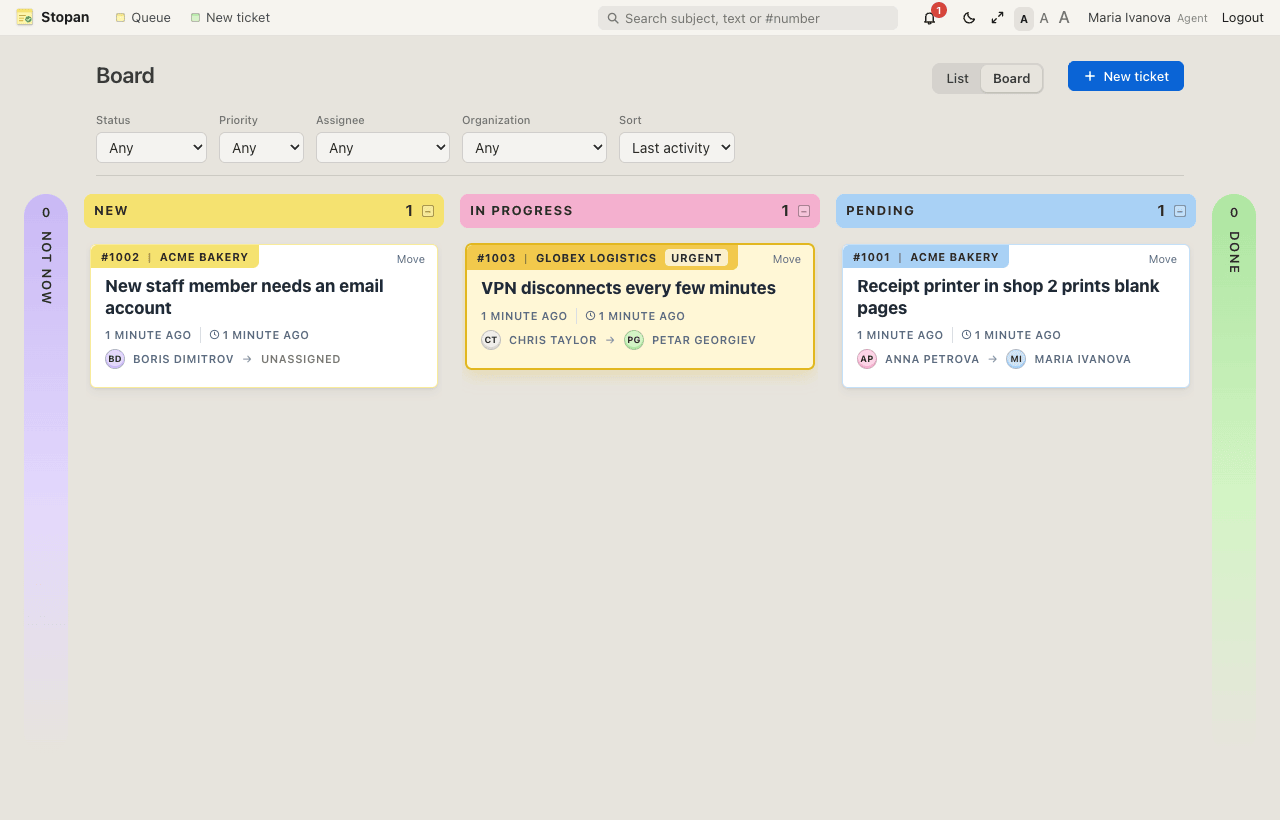
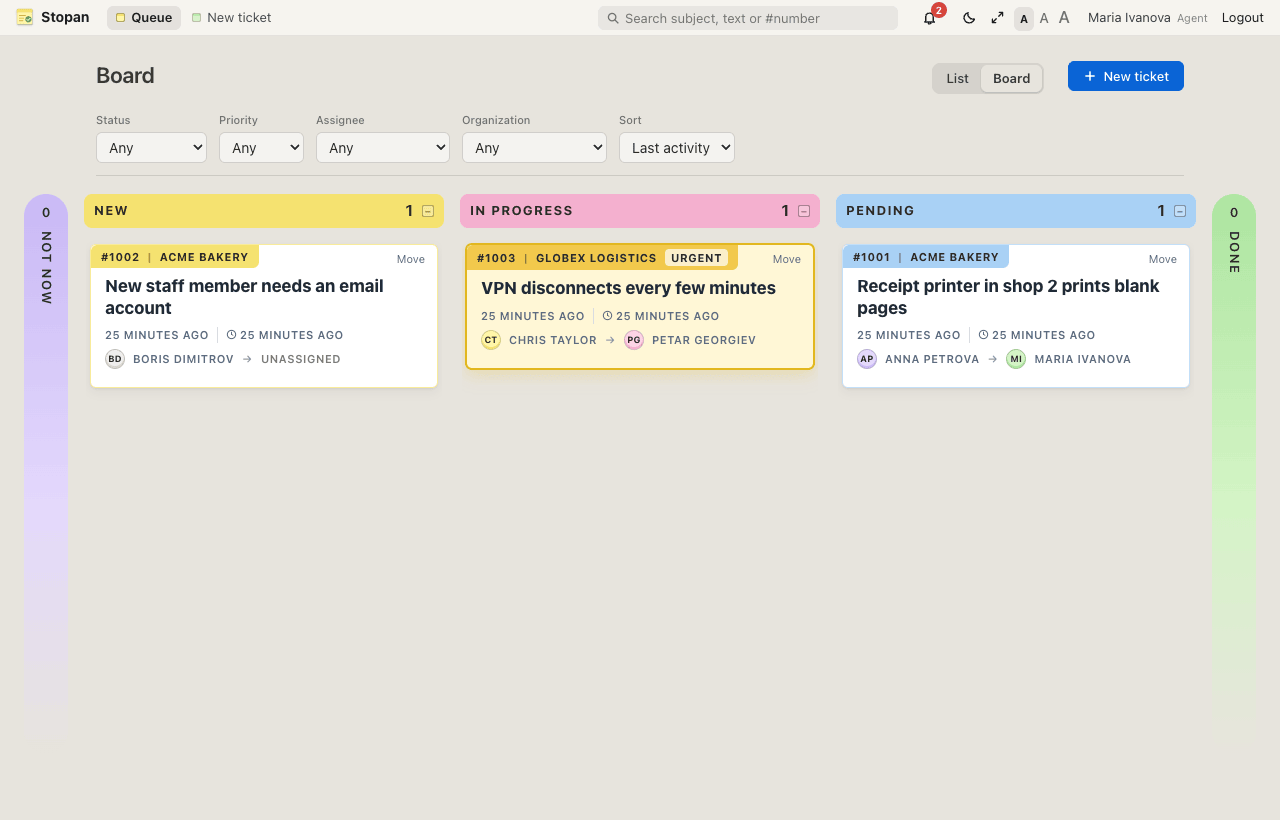
fix(nav): mark queue as the current section on the board
The board belongs to the Queue section like the list and the ticket
pages, but current_section did not count the boards controller, so the
menu bar showed no current section there. Count it as :tickets, so
"Queue" gets aria-current="page" on the board, and assert it in the
board controller test.

specs/ui.md "Menu bar" now says the board is part of "Queue". The README
board screenshot is retaken to show it, with the demo tickets aged so
the card times fit on one line.

diff --git a/test/controllers/boards_controller_test.rb b/test/controllers/boards_controller_test.rb
@@ -24,6 +24,7 @@ class BoardsControllerTest < ActionDispatch::IntegrationTest
       assert_select ".board-card__move form[action=?]", move_ticket_path(printer), Ticket::TRANSITIONS[printer.status].size
     end
     assert_select ".view-switch a[aria-current=page]", "Board"
+    assert_select ".menubar__nav a[aria-current=page][href=?]", tickets_path, /Queue/
     assert_select "turbo-cable-stream-source[channel=TicketListsChannel]"
   end
 

diff --git a/app/helpers/application_helper.rb b/app/helpers/application_helper.rb
@@ -34,7 +34,7 @@ module ApplicationHelper
   def current_section
     if controller_path.start_with?("admin/") then :admin
     elsif controller_name == "tickets" && action_name.in?(%w[new create]) then :new_ticket
-    elsif controller_name.in?(%w[tickets comments]) then :tickets
+    elsif controller_name.in?(%w[tickets comments boards]) then :tickets
     end
   end
 

diff --git a/specs/ui.md b/specs/ui.md
@@ -17,7 +17,8 @@ Turbo Drive for page changes.
   "Stopan" (icon only under 560px), then section pills with a paper-colour
   square: "Queue" (staff, yellow) or "My tickets" (requesters, yellow),
   "New ticket" (green), "Admin" (admins, grey). The current section has
-  `aria-current="page"`. Then the ticket search field (signed-in users,
+  `aria-current="page"`; the board (board.md) is part of "Queue", like
+  the list and the ticket pages. Then the ticket search field (signed-in users,
   queues.md "Search"; on its own full-width row under 560px). Right: the
   notification bell with its unread count and panel (notifications.md
   "Notification panel"), theme switch, width switch, three text sizes,

diff --git a/todo/todo.md b/todo/todo.md
@@ -107,6 +107,7 @@ decisions: IMAP, address = identity, magic links, form off by default):
 - [x] production: deployed 3e50793 with `MergeResolvedAndClosedIntoDone`, after a database backup (specs/deploy.md)
 - [x] organization list of email addresses or domains allowed to use the public request page (operator)
 - [x] README screenshots refreshed, with a fifth one of the board (specs/ui.md "Screenshots")
+- [x] menu bar marks "Queue" on the board too (specs/ui.md "Menu bar")
 
 Plan: g0no's note display options for tickets (proposed 2026-10-27,
 approved "go in this order", all done 2026-10-27):

diff --git a/session/2026-10-26-assignment-sharing.md b/session/2026-10-26-assignment-sharing.md
@@ -425,6 +425,9 @@ Operator requests, in order:
 - README screenshots refreshed with `make screenshots` against a scratch
   database with the `make demo` data (removed afterwards); a fifth one,
   `board.png`, shows the board; specs/ui.md "Screenshots" lists five.
+- The menu bar marks "Queue" on the board as well (`current_section`
+  counts the boards controller as :tickets); `board.png` retaken with the
+  demo tickets aged 25 minutes so card times fit on one line.
 
 ## Decisions
 
